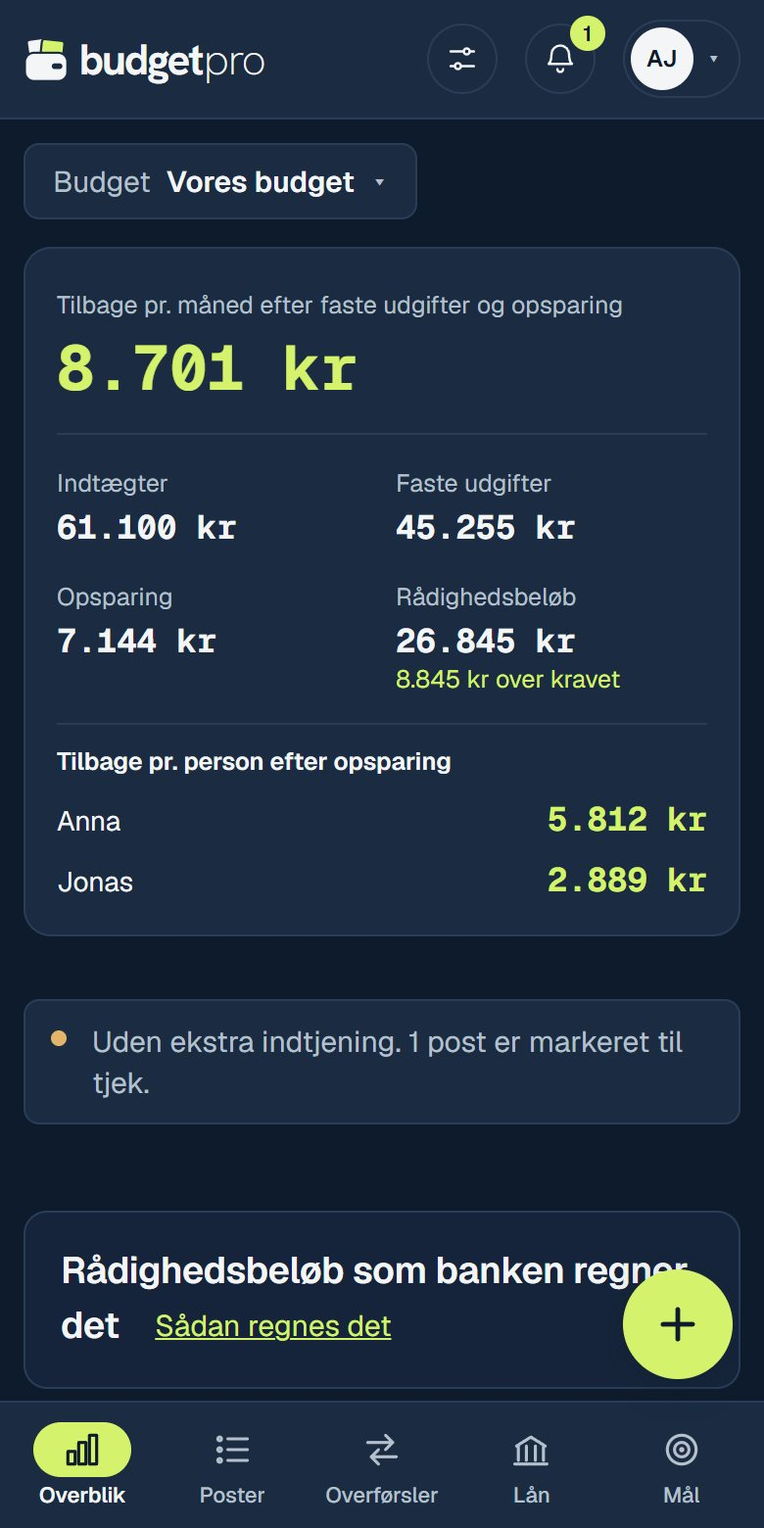
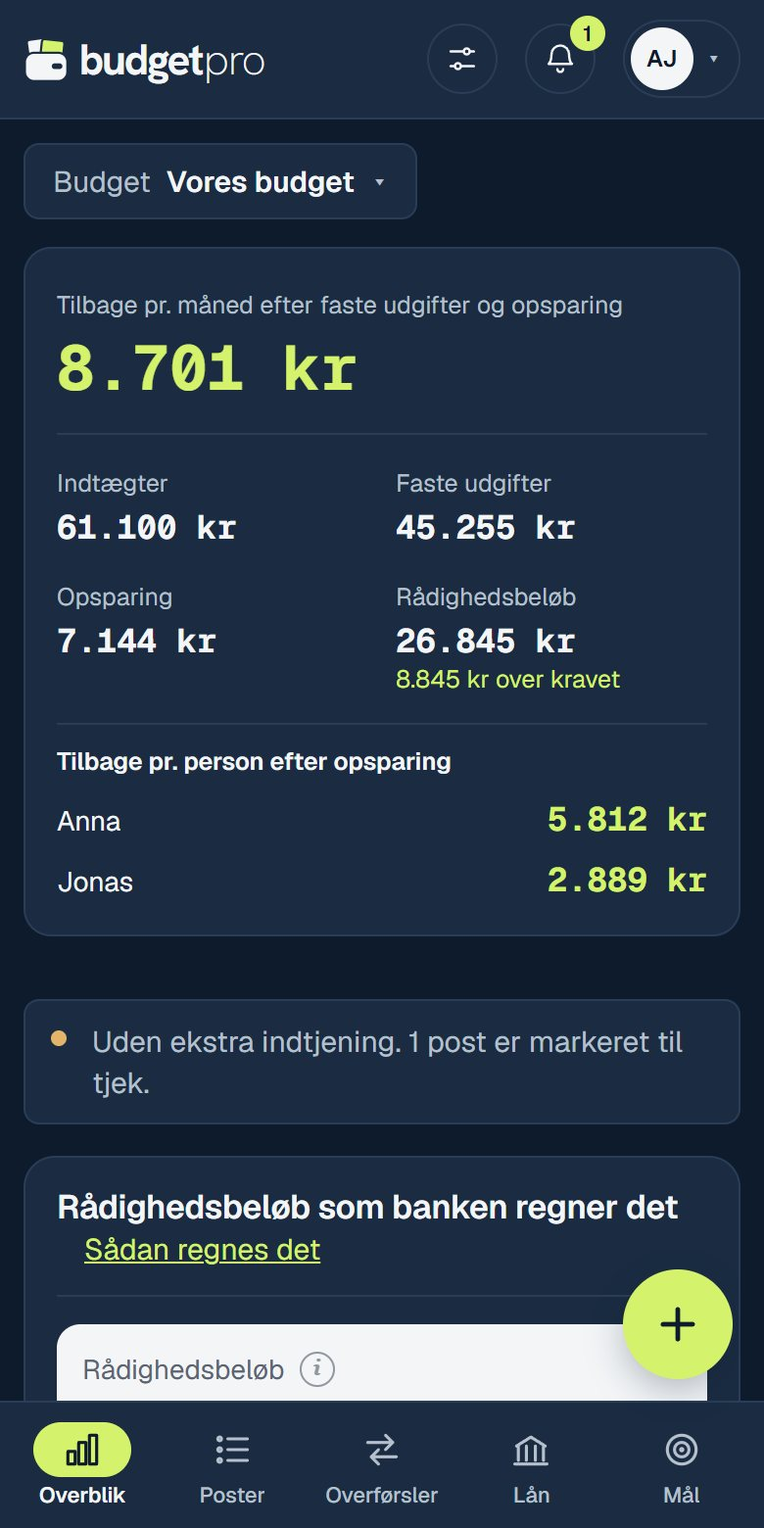
App on phones: each section is one card, details behind a button
Every section on a phone is one card with its heading inside; what was a card inside it becomes a grey tile or a
row with a line. Person cards and goals show their result with the details behind a button, the explanation under
a page's sentence is cut to three lines with "Vis mere", each post category is its own block, the filters sit on
one row, loans are small cards, and Pengestrømme and the goal chart stay on bigger screens. Landing shots redone.

Changed region(s): [[0.0308, 0.7692, 0.9231, 0.9231]]

diff --git a/public/budgetr-app/index.html b/public/budgetr-app/index.html
@@ -1067,6 +1067,108 @@ dialog.howdlg{width:min(1180px,96vw);max-width:none;height:92vh;max-height:92vh;
   /* "Dækkes af fast overførsel fra" is for the experienced: behind Flere felter until a post has it set. */
   #frm:not(.mmore) .grid2>#wCover:has(#fCover option:checked[value=""]){display:none!important}
 }
+/* ---------- Phones: every section is one card with its heading inside, like the grouped lists in banking apps. What
+   was a card of its own inside a section becomes a grey tile (people, goals, key figures) or a row with a line under
+   it (accounts, transfers), so a card never sits on another card. The long explanations are cut to a few lines,
+   and the person cards show their result until "Vis indtægter, udgifter og opsparing" is pressed. ---------- */
+.pmore{display:none}
+@media (max-width:760px){
+  #app>section,#app>section.tflow{margin:12px 0 0;padding:0 16px 16px!important;background:var(--card);border:1px solid var(--rule);border-radius:16px}
+  #app>section>.sechead,#app>section>h2{margin:0 0 14px;padding:14px 0 12px!important;background:transparent;border:0;border-bottom:1px solid var(--rule);border-radius:0}
+  #app>section>.sechead{display:flex;flex-wrap:wrap;align-items:center;justify-content:space-between;gap:8px 12px}
+  #app>section>.sechead h2,#app>section>h2{font-size:17px!important;line-height:1.3}
+  #app>section>.sechead h2 .helplink{font-size:13px;font-weight:400}
+  #app>section>.sechead .hint{display:none}
+  #app>section>.sechead>button,#app>section>.sechead .shtools .tbtn{min-height:36px;padding:6px 14px!important;font-size:14px!important}
+  #app>section>.sechead .shtools{display:flex;gap:8px;flex-wrap:wrap}
+  .sechead .split{margin:0}
+  /* Pages other than Overblik: the sentence in a card of its own, its explanation cut to three lines. */
+  body:not([data-page="budget"]) .hero{margin-top:12px;padding:16px!important;background:var(--card);border:1px solid var(--rule);border-radius:16px}
+  body:not([data-page="budget"]) .hero>p{display:block;font-size:19px;line-height:1.35;max-width:none}
+  .hero small:not(.hbar){font-size:13.5px;line-height:1.45;margin-top:10px;max-height:calc(3 * 1.45em);overflow:hidden;position:relative}
+  .hero small.open{max-height:none}
+  .hero small.clamp{cursor:pointer}
+  .hero small.clamp::after{content:"Vis mere";position:absolute;right:0;bottom:0;padding-left:28px;background:linear-gradient(to right,transparent,var(--card) 24px);color:var(--pine);font-weight:600;text-decoration:underline}
+  .hero small.hbar{display:block}
+  .mcheck{margin:12px 0 0;padding:16px;border-radius:16px}
+  /* Key figures: two tiles in a row, the main one across; grey tiles inside the card. */
+  #app>section .kpis{grid-template-columns:1fr 1fr;grid-auto-flow:dense;gap:8px}
+  #app>section .kpi{border-color:transparent;padding:12px;border-radius:12px;min-width:0}
+  #app>section .kpi:not(.hero2){background:var(--paper)}
+  #app>section .kpi.hero2{grid-column:1/-1}
+  #app>section .kpi.good{background:var(--pine-bg)}
+  #app>section .kpi.bad{background:var(--brick-bg)}
+  #app>section .kpi b{font-size:17px!important;overflow-wrap:anywhere}
+  #app>section .kpi.hero2 b{font-size:22px!important}
+  #app>section .kpi small{font-size:11.5px}
+  .setstat{margin:0 0 12px;font-size:13px}
+  /* Konti: a list with a line between the accounts. */
+  .accounts,.accounts:has(details.acctd){gap:0}
+  #app details.acctd{background:transparent;border:0;border-bottom:1px solid var(--rule);border-radius:0}
+  #app details.acctd:last-child{border-bottom:0}
+  #app details.acctd>summary{padding-left:0;padding-right:0}
+  /* Hvem betaler hvad: one grey tile per person, the result first. */
+  .people{gap:10px}
+  .person{background:var(--paper);border:0;border-radius:12px;padding:16px!important}
+  .person h3{margin-bottom:4px}
+  .person .big{margin-top:0}
+  .person:not(.open)>:is(.kv.calc,.psav,.kv:not(.pend)){display:none}
+  .person .kv.pend{display:flex;justify-content:space-between;gap:12px;margin-top:10px;padding-top:10px;border-top:1px solid var(--rule)}
+  .pmore{display:block;width:100%;margin-top:12px;min-height:42px;background:var(--card)!important;font-size:14px!important}
+  /* Poster: search across, the three filters on one row, each category as its own block with a grey head. */
+  .filters{display:grid;grid-template-columns:repeat(3,minmax(0,1fr));gap:8px}
+  .filters .qbox{grid-column:1/-1;order:-1}
+  .filters .ptools{grid-column:1/-1}
+  .filters select{min-width:0;width:100%;padding:8px 6px;text-overflow:ellipsis}
+  .ptbl{margin:0 -16px;background:transparent!important;border:0!important;border-radius:0}
+  .ptbl tr.grp>td,.ptbl tr.cat>td{padding-top:12px;padding-bottom:12px}
+  .ptbl tr.cat{margin:14px 12px 4px;background:var(--paper);border-radius:10px}
+  .ptbl tr.grp{margin:0 12px 4px;border-radius:10px}
+  .ptbl tr.grp:not(:first-child){margin-top:18px}
+  .ptbl tr.grp>td:first-child{display:flex!important;flex-wrap:wrap;align-items:center;gap:6px 0;font-size:17px;min-width:0}
+  .filters .ptools .tbtn{white-space:nowrap;font-size:13.5px!important;padding-left:8px!important;padding-right:8px!important}
+  .ptbl tr.row,.ptbl tr.empty{margin:0 4px}
+  .ptbl tr.row:has(+tr.cat),.ptbl tr.row:has(+tr.grp),.ptbl tr.row:last-child{border-bottom:0}
+  /* Overførsler: the accounts as groups with a line between them, not cards inside the card. */
+  .tcards{gap:0}
+  .tcard{background:transparent;border:0;border-top:1px solid var(--rule);border-radius:0!important;padding:14px 0 0}
+  .tcard:first-child{border-top:0;padding-top:0}
+  .tcard .tablewrap,#app>section .tablewrap:has(.tstack){background:transparent;border:0;margin:0 -14px}
+  /* Mål: grey tiles; the table of goals repeats the cards above it, so it is left out here. */
+  .goals{gap:10px}
+  .goal{background:var(--paper);border:0;border-radius:12px;padding:16px!important}
+  .gsum>.tablewrap:first-child{display:none}
+  .goal:not(.open)>:is(.kv,.gscope){display:none}
+  /* Drawings that need a wide screen stay on bigger screens, like the 12-month graph. */
+  #app>section.tflow,#app>section.gchart{display:none}
+  .upd{margin:0 0 12px}
+  .sortbar>span{display:none}
+}
+/* Lån on a phone: each loan as a small card – description and restgæld on top, bank below, then the key numbers with
+   their labels. Oprindeligt, Betalt af, Renter/md. and Udløber are in the loan itself. */
+@media (max-width:560px){
+  .ltbl{overflow:visible;margin:0 -16px;background:transparent!important;border:0!important}
+  .ltbl table,.ltbl tbody{display:block;width:100%}
+  .ltbl thead{display:none}
+  .ltbl tr{display:grid;grid-template-columns:30px repeat(3,minmax(0,1fr));gap:6px 10px;padding:12px 16px;border-bottom:1px solid var(--rule)}
+  .ltbl td{display:flex;flex-direction:column;align-items:flex-start;gap:1px;padding:0!important;border:0!important;text-align:left!important;min-width:0;background:transparent!important;font-size:14px}
+  .ltbl td[data-l]::before{content:attr(data-l);font-size:11.5px;color:var(--ink3)}
+  .ltbl td *{white-space:normal!important;overflow-wrap:anywhere}
+  .ltbl td.chk{grid-column:1;grid-row:1/span 2;padding-top:2px!important}
+  .ltbl td.desc{grid-column:2/4;grid-row:1;font-weight:600;font-size:15px}
+  .ltbl td.restcol{grid-column:4;grid-row:1;align-items:flex-end;text-align:right!important}
+  .ltbl td.restcol::before{content:none}
+  .ltbl tr.row>td:nth-child(2){grid-column:2/-1;grid-row:2;color:var(--ink2);font-size:13px}
+  .ltbl td:is([data-l="Oprindeligt"],[data-l="Renter/md."],[data-l="Udløber"]),.ltbl td.lpaid{display:none}
+  .ltbl td[data-l="Ydelse/md."]{grid-column:2}
+  .ltbl td[data-l="I budgettet"]{grid-column:2/-1;flex-direction:row;flex-wrap:wrap;align-items:baseline;gap:4px 8px;color:var(--ink2);font-size:13px}
+  .ltbl td[data-l="I budgettet"]::before{content:"I budgettet:";font-size:13px}
+  .ltbl td[data-l="I budgettet"] .note{display:none}
+  .ltbl tr.cat{grid-template-columns:minmax(0,1fr) auto;background:var(--paper);margin:8px 12px 0;border-radius:10px;border:0}
+  .ltbl tr.cat>td{display:none}
+  .ltbl tr.cat>td:first-child,.ltbl tr.cat>td.restcol{display:flex;font-weight:600}
+  .ltbl tr.cat>td.restcol{grid-column:2;grid-row:1}
+}
 @media print{
   .mnav,.fab{display:none!important}
   .appbar,.navrow{display:none!important}
@@ -1749,9 +1851,9 @@ function render(){
     if(!filmSeen())setTimeout(()=>{if(!S&&!filmSeen()&&!document.querySelector('dialog[open]'))openFilm()},400);return}
   syncENT();
   INFO=[];closePop();
-  if(page==='laan'){$('exAll').checked=exOn();app.innerHTML=loansHtml();bindLoans();return}
-  if(page==='overf'){$('exAll').checked=exOn();app.innerHTML=overfHtml();bindOverf();return}
-  if(page==='maal'){$('exAll').checked=exOn();app.innerHTML=goalsHtml();bindGoals();return}
+  if(page==='laan'){$('exAll').checked=exOn();app.innerHTML=loansHtml();bindLoans();clampHero();return}
+  if(page==='overf'){$('exAll').checked=exOn();app.innerHTML=overfHtml();bindOverf();clampHero();return}
+  if(page==='maal'){$('exAll').checked=exOn();app.innerHTML=goalsHtml();bindGoals();clampHero();return}
   $('exAll').checked=exOn();
   const t=totals(), sh=shares();
   const unplaced=act().filter(e=>e.type==='udgift'&&!e.account);
@@ -1839,7 +1941,7 @@ function render(){
     const c=personCalc(p.id);
     // Til rådighed as a small sum: incomes (+, green), expenses (−, red), then the result below.
     const incT=c.own+c.extra+c.shInc, expT=c.ownExp+c.shExp, ln=(cls,label,v)=>`<span class="${cls}">${label}</span><span class="${cls} v">${disp(v)}</span>`;
-    h+=`<div class="person"><h3>${esc(p.name)}</h3><div class="kv calc">
+    h+=`<div class="person${PDET.has(p.id)?' open':''}"><h3>${esc(p.name)}</h3><div class="kv calc">
       <span class="ch in">Indtægter</span><span class="ch"></span>
       ${ln('in',`+ Faste indtægter ${ib(listInfo('Faste indtægter',act().filter(e=>e.type==='indtaegt'&&!e.extra&&inFree(e)&&e.payer===p.id)))}`,c.own)}
       ${extraSum(p)?ln('in',`+ Ekstra indtjening ${ib(`<b>Ekstra indtjening</b>${tbl(exPosts(p.id).map(e=>[esc(e.desc),howOf(e),disp(mAvg(e))]),extraSum(p))}<p>${exOn()?'Medregnes i beregningen.':'Medregnes ikke lige nu.'} Fluebenet herunder gælder hele husstanden. Indgår ikke i fordelingen af fælles udgifter. Posterne står under Indtægter.</p>`)}`,c.extra)
@@ -1863,8 +1965,9 @@ function render(){
       <div class="psav"><span class="ph">Ekstra indtjening</span>${exPosts(p.id).map(e=>`<div class="psrow click" data-open="${e.id}" tabindex="0" role="button" title="Ret posten"><span class="nm">${esc(e.desc)}<small>${esc(howOf(e))}${exOn()?'':' · ikke medregnet'}</small></span><span class="v">${disp(mAvg(e))}</span></div>`).join('')||'<span class="muted" style="font-size:13px">Ingen ekstra indtjening.</span>'}${extraSum(p)?`<div class="psum ex"><span>I alt</span><b>${disp(extraSum(p))}</b></div>`:''}
         <button type="button" class="ghost" data-exnew="${p.id}" style="align-self:flex-start">Tilføj ekstra indtjening</button></div>
       ${psavHtml(p,c)}
-      <div class="kv"><span>Tilbage efter opsparing</span><span style="color:${c.afterSav>=0?'var(--pine)':'var(--brick)'}">${disp(c.afterSav)}</span></div>
-      ${c.afterSav<0?`<div class="verdict bad">Opsparingen er ${disp(-c.afterSav)} højere end rådighedsbeløbet.</div>`:''}</div>`;
+      <div class="kv pend"><span>Tilbage efter opsparing</span><span style="color:${c.afterSav>=0?'var(--pine)':'var(--brick)'}">${disp(c.afterSav)}</span></div>
+      ${c.afterSav<0?`<div class="verdict bad">Opsparingen er ${disp(-c.afterSav)} højere end rådighedsbeløbet.</div>`:''}
+      ${moreBtn(p.id,'Vis indtægter, udgifter og opsparing')}</div>`;
   });
   h+=`</div></section>`;
 
@@ -1897,6 +2000,14 @@ function render(){
    posts), Overblik asks "Hvad har ændret sig siden sidst?" – the posts with a new amount or new since then (e.since,
    e.history), plus the posts to check and the open tasks – and "Budgettet passer" confirms it with one press. */
 const MC_DAYS=30;
+/* Phones: the person cards on Overblik show the result only; PDET holds the ones opened with "Vis indtægter, …" (until reload).
+   The long explanation under a page's sentence is cut to a few lines there, with "Vis mere" when there is more (clampHero). */
+const PDET=new Set();
+const moreBtn=(key,label)=>`<button type="button" class="pmore" data-pmore="${key}" data-l="${label}" aria-expanded="${PDET.has(key)}">${PDET.has(key)?'Skjul detaljer':label}</button>`;
+function bindMore(){document.querySelectorAll('[data-pmore]').forEach(b=>b.onclick=()=>{const k=b.dataset.pmore,on=!PDET.has(k);on?PDET.add(k):PDET.delete(k);
+  b.parentElement.classList.toggle('open',on);b.setAttribute('aria-expanded',String(on));b.textContent=on?'Skjul detaljer':b.dataset.l})}
+function clampHero(){const s=document.querySelector('#app .hero small:not(.hbar)');if(!s||s.classList.contains('open'))return;
+  s.classList.toggle('clamp',s.scrollHeight>s.clientHeight+2);s.onclick=()=>{if(s.classList.contains('clamp')){s.classList.remove('clamp');s.classList.add('open')}}}
 const daysSince=d=>Math.floor((Date.parse(DAY())-Date.parse(d))/864e5);
 function monthCheckDue(){const sp=S.settings||{};return sp.monthCheck?daysSince(sp.monthCheck)>=MC_DAYS:S.entries.length>=5}
 function monthCheckHtml(){if(!monthCheckDue())return '';const last=S.settings.monthCheck||'';
@@ -2062,12 +2173,12 @@ function goalsHtml(){
   if(!G.length)h+=`<div class="empty" style="padding:8px 0"><p>Opret et mål, fx udbetaling til hus. Angiv beløb, startdato og måldato, så beregnes det månedlige beløb. Vælg konto og betaler som på en almindelig post.</p></div>`;
   else{h+=`<div class="goals">`+G.map(g=>{const c=goalCalc(g),inCtx=goalIn(g,key),tr=g.to&&g.to!==g.from;
     const badge=g.active===false?'<span class="badge un">Inaktiv</span>':c.ended?`<span class="badge un">${c.mode==='monthly'?'Slutdato':'Måldato'} er passeret</span>`:c.future?`<span class="badge chk">Starter ${idxLbl(c.s).toLowerCase()}</span>`:'';
-    return `<div class="goal ${inCtx&&goalCounts(g)?'':'off'}"><div class="ghead"><h3><span class="gdot" style="background:${gColor(g)}"></span>${esc(g.name||'Mål')}${badge}</h3><button type="button" class="ghost" data-gedit="${g.id}">Ret</button></div>
+    return `<div class="goal ${inCtx&&goalCounts(g)?'':'off'}${PDET.has('g:'+g.id)?' open':''}"><div class="ghead"><h3><span class="gdot" style="background:${gColor(g)}"></span>${esc(g.name||'Mål')}${badge}</h3><button type="button" class="ghost" data-gedit="${g.id}">Ret</button></div>
      <div class="gamt">${kr(c.monthly)}<small>pr. md.${c.n?' i '+c.n+' md.':' · løbende'}</small></div>${c.xs?`<span class="note" style="margin-top:-6px">${c.mode==='monthly'?`Plus ${c.X.length} ekstra ${c.X.length===1?'indbetaling':'indbetalinger'} på i alt ${kr(c.xs)}.`:`Sænket fra ${kr(Math.ceil(c.rest0/c.n))} til ${kr(c.monthly)} pr. md. med ${c.X.length} ekstra ${c.X.length===1?'indbetaling':'indbetalinger'} på i alt ${kr(c.xs)}.`}</span>`:''}
      <div>${c.T?`<div class="loanbar"><div style="width:${Math.round(c.pct*100)}%;background:${gColor(g)}"></div></div><span class="note">Skønnet opsparet ${kr(c.est)} af ${kr(c.T)} (${Math.round(c.pct*100)} %) · ${c.left} md. tilbage</span>`:`<span class="note">Skønnet opsparet ${kr(c.est)} indtil nu · om et år ${kr(c.est+c.monthly*12)}</span>`}</div>
      <div class="kv">${c.mode==='monthly'?`<span>Type</span><span>Fast pr. md.</span><span>Forventet slutbeløb</span><span>${c.T?kr(c.T):'Løbende'}</span><span>Allerede opsparet</span><span>${kr(c.sv)}</span>`:`<span>Type</span><span>Fast beløb</span><span>Målbeløb</span><span>${kr(c.T)}</span><span>Allerede opsparet</span><span>${kr(c.sv)}</span><span>Mangler ved start</span><span>${kr(c.rest0)}</span>`}${c.X.length?`<span>Ekstra indbetalinger ${ib(`<b>Ekstra indbetalinger</b>${tbl(c.X.map(x=>[esc(fmtDate(x.date)),esc(x.desc),kr(x.amount)]))}<table class="itbl"><tbody><tr class="sum"><td>I alt</td><td class="r">${kr(c.xs)}</td></tr></tbody></table><p>${c.mode==='monthly'?'Lægges oven i de månedlige indbetalinger.':`Sænker den månedlige opsparing fra ${kr(Math.ceil(c.rest0/c.n))} til ${kr(c.monthly)}.`}</p>`)}</span><span>${kr(c.xs)}</span>`:''}
       <span>Periode</span><span>${esc(fmtDate(g.start))} – ${g.end?esc(fmtDate(g.end)):'løbende'}</span><span>Betales fra</span><span>${esc(accName(g.from))}</span><span>Sættes ind på</span><span>${tr?esc(accName(g.to)):'Bliver på kontoen'}</span><span>Betaler</span><span>${esc(perName(g.payer||FAELLES))}</span></div>
-     ${c.xOut?`<div class="verdict warn">${c.xOut} ekstra ${c.xOut===1?'indbetaling ligger':'indbetalinger ligger'} uden for perioden og tæller ikke med.</div>`:''}${g.note?`<span class="note">${esc(g.note)}</span>`:''}${scopeChips(g)}</div>`}).join('')+`</div>`}
+     ${c.xOut?`<div class="verdict warn">${c.xOut} ekstra ${c.xOut===1?'indbetaling ligger':'indbetalinger ligger'} uden for perioden og tæller ikke med.</div>`:''}${g.note?`<span class="note">${esc(g.note)}</span>`:''}${scopeChips(g)}${moreBtn('g:'+g.id,'Vis detaljer')}</div>`}).join('')+`</div>`}
   h+=`</section>`;
   if(L.length){
     const rowsG=L.map(g=>{const c=goalCalc(g),tr=g.to&&g.to!==g.from;return `<tr><td><span class="gdot" style="background:${gColor(g)}"></span>${esc(g.name||'Mål')}</td><td>${esc(accName(g.from))}${tr?' til '+esc(accName(g.to)):''}</td><td>${esc(perName(g.payer||FAELLES))}</td><td class="r">${c.xs?kr(c.xs):'<span class="muted">–</span>'}</td><td class="r">${disp(c.monthly)}</td></tr>`}).join('');
@@ -2093,6 +2204,7 @@ function goalsHtml(){
 }
 function bindScopes(){document.querySelectorAll('[data-gscope]').forEach(c=>c.onchange=()=>{const g=(S.goals||[]).find(x=>x.id===c.dataset.gscope);if(!g)return;const k=c.dataset.key;g.scopes=(g.scopes||[]).filter(x=>x!==k);if(c.checked)g.scopes.push(k);commit()})}
 function bindGoals(){
+  bindMore();
   document.querySelectorAll('[data-sc]').forEach(b=>b.onclick=()=>{SC=b.dataset.sc||null;render()});
   document.querySelectorAll('[data-gnew]').forEach(b=>b.onclick=()=>openGoal(null));
   document.querySelectorAll('[data-gedit]').forEach(b=>b.onclick=()=>openGoal(b.dataset.gedit));
@@ -2369,11 +2481,11 @@ function loansHtml(){
    ${L.map(({l,c})=>{
      const diff=c.budget!==null&&Math.abs(c.budget-c.A)>=1&&!l.paused;
      return `<tr class="row ${l.paused?'paused':''} ${l.include===false?'excl':''}" data-loan="${l.id}" tabindex="0"><td class="chk"><input type="checkbox" data-linc="${l.id}" ${l.include!==false?'checked':''} aria-label="Medtag ${esc(l.desc)} i samlet restgæld"></td><td>${esc(l.bank)}</td><td class="desc">${esc(l.desc)}${l.paused?'<span class="badge mute">Pause</span>':''}${l.note?`<span class="note">${esc(l.note)}</span>`:''}</td>
-     <td class="r">${kr(c.O)}</td><td class="r restcol"><b>${kr(c.P)}</b>${l.restDate&&l.restDate!==(S.loanUpdated?fmtDate(S.loanUpdated,true):'')?`<span class="note">pr. ${esc(l.restDate)}</span>`:''}</td>
-     <td><div class="loanbar" title="${Math.round(c.paid*100)} % betalt"><div style="width:${Math.round(c.paid*100)}%"></div></div><span class="note">${Math.round(c.paid*100)} %</span></td>
-     <td class="r">${kr(c.A)}</td><td class="r">${l.rate!==''&&l.rate!==undefined&&l.rate!==null?pct(l.rate):'<span class="muted">–</span>'}</td><td class="r">${l.rate?kr(c.interest):'<span class="muted">–</span>'}</td>
-     <td>${esc(l.ends||'')}</td><td>${l.paused?'<span class="muted">På pause</span>':c.n===null?(l.rate?'<span class="badge un">Ydelsen dækker ikke renten</span>':'<span class="muted">Angiv rente</span>'):c.n>360?`${c.endTxt}<span class="note">Over 30 år. Er lånet afdragsfrit, eller indeholder ydelsen bidrag?</span>`:`${c.endTxt}${c.n>0?`<span class="lend">frigiver ${kr(c.budget!==null?c.budget:c.A)}/md.</span>`:''}`}</td>
-     <td class="r">${c.link?`${c.budget!==null?kr(c.budget):'<span class="muted">Inaktiv</span>'}${diff?`<span class="badge chk">${c.budget>c.A?'+':''}${kr(c.budget-c.A)}</span>`:''}<span class="note">${esc(c.link.desc)}</span>`:'<span class="muted">Ikke tilknyttet</span>'}</td></tr>`}).join('')}
+     <td class="r" data-l="Oprindeligt">${kr(c.O)}</td><td class="r restcol" data-l="Restgæld"><b>${kr(c.P)}</b>${l.restDate&&l.restDate!==(S.loanUpdated?fmtDate(S.loanUpdated,true):'')?`<span class="note">pr. ${esc(l.restDate)}</span>`:''}</td>
+     <td class="lpaid" data-l="Betalt af"><div class="loanbar" title="${Math.round(c.paid*100)} % betalt"><div style="width:${Math.round(c.paid*100)}%"></div></div><span class="note">${Math.round(c.paid*100)} %</span></td>
+     <td class="r" data-l="Ydelse/md.">${kr(c.A)}</td><td class="r" data-l="Rente">${l.rate!==''&&l.rate!==undefined&&l.rate!==null?pct(l.rate):'<span class="muted">–</span>'}</td><td class="r" data-l="Renter/md.">${l.rate?kr(c.interest):'<span class="muted">–</span>'}</td>
+     <td data-l="Udløber">${esc(l.ends||'')}</td><td data-l="Beregnet slut">${l.paused?'<span class="muted">På pause</span>':c.n===null?(l.rate?'<span class="badge un">Ydelsen dækker ikke renten</span>':'<span class="muted">Angiv rente</span>'):c.n>360?`${c.endTxt}<span class="note">Over 30 år. Er lånet afdragsfrit, eller indeholder ydelsen bidrag?</span>`:`${c.endTxt}${c.n>0?`<span class="lend">frigiver ${kr(c.budget!==null?c.budget:c.A)}/md.</span>`:''}`}</td>
+     <td class="r" data-l="I budgettet">${c.link?`${c.budget!==null?kr(c.budget):'<span class="muted">Inaktiv</span>'}${diff?`<span class="badge chk">${c.budget>c.A?'+':''}${kr(c.budget-c.A)}</span>`:''}<span class="note">${esc(c.link.desc)}</span>`:'<span class="muted">Ikke tilknyttet</span>'}</td></tr>`}).join('')}
    <tr class="cat"><td colspan="3">I alt, ${selTxt}</td><td class="r">${kr(tO)}</td><td class="r restcol">${kr(tP)}</td><td></td><td class="r">${kr(tA)}</td><td class="r">${pct(wr)}</td><td class="r">${kr(tI)}</td><td colspan="3"></td></tr>
    </tbody></table></div>
    <p class="muted" style="font-size:13px;margin-top:10px">"I budgettet" viser den tilknyttede budgetpost omregnet til pr. måned. Et gult tal viser forskellen til ydelsen her. Kvartalsvise ydelser, fx Totalkredit, kan afvige lidt, fordi banken opgør pr. måned.</p>
@@ -2851,6 +2963,7 @@ function startInfo(onPosts){
   return `<div class="startinfo" role="note"><div><b>Udfyld dine budgetposter for at få tal i dit budget</b><p>Læg løn og faste udgifter ind, fx husleje, el, forsikringer og abonnementer. Så viser overblikket, hvad der er tilbage hver måned.</p></div>
   <div class="btns">${onPosts?'':'<button type="button" data-goto="poster">Gå til Budgetposter</button>'}<button type="button" class="primary" data-newpost>Ny budgetpost</button></div></div>`}
 function bindMain(){
+  bindMore();
   document.querySelectorAll('details.acctd').forEach(d=>d.addEventListener('toggle',()=>{FOLD[d.dataset.acc]=!d.open;saveFold();const all=[...document.querySelectorAll('details.acctd')];const b=$('btnFoldAll');if(b)b.innerHTML=foldLbl(all.every(x=>!x.open))}));
   const bf=$('btnFoldAll');if(bf)bf.onclick=()=>{const all=[...document.querySelectorAll('details.acctd')],open=!all.every(x=>!x.open)?false:true;all.forEach(x=>{x.open=open;FOLD[x.dataset.acc]=!open});saveFold();bf.innerHTML=foldLbl(!open)};
   if($('btnAccts'))$('btnAccts').onclick=openAccts;

diff --git a/CLAUDE.md b/CLAUDE.md
@@ -7,7 +7,7 @@ Language: code and comments in English; UI text in Danish (du-form, calm, no exc
 ## Architecture
 
 - `/` landing page (Next.js, `components/landing/`), `/login` test-user login (Next.js), `/app` = the ORIGINAL budgetr app from the prototype, a single vanilla-JS file at `public/budgetr-app/index.html` (rewritten in `next.config.ts`). The user chose to keep that app 1:1 instead of a React rebuild; change features by editing that file directly, and keep its behaviour and look.
-- On phones (≤760 px) the app works like an app: the pages sit in a fixed bar at the bottom (`.mnav`, same `data-page` buttons as the top tabs), a round + opens a new post (`.fab`, Overblik and Poster only), Indstillinger is the gear in the top bar (`.setbtn`), Overblik starts with a key-figure card (`mobSumHtml()`) instead of the hero sentence and leaves out the 12-month graph, and the post editor fills the screen with fixed buttons and the main fields first (the rest behind "Flere felter", `moreFields()`). A new page needs a button in both `.tabs` and `.mnav`. "Rundtur" in the profile menu (`openTour()`, stops in `TOUR`) dims the page and points at six things in turn – the pages, new post, scenarios/drafts, tasks, settings, the menu – using whichever button is shown (top tabs or `.mnav`, `#btnNew` or `.fab`); when one of them moves or a main feature gets its own button, update `TOUR`.
+- On phones (≤760 px) the app works like an app: the pages sit in a fixed bar at the bottom (`.mnav`, same `data-page` buttons as the top tabs), a round + opens a new post (`.fab`, Overblik and Poster only), Indstillinger is the gear in the top bar (`.setbtn`), Overblik starts with a key-figure card (`mobSumHtml()`) instead of the hero sentence and leaves out the 12-month graph, and the post editor fills the screen with fixed buttons and the main fields first (the rest behind "Flere felter", `moreFields()`). Every section is one card with its heading inside (no card on a card: inner parts become grey tiles or rows with a line), the person cards and goals show their result with the details behind a button (`moreBtn()`/`PDET`), the explanation under a page's sentence is cut to three lines with "Vis mere" (`clampHero()`), each post category is its own block, loans are small cards, and Pengestrømme and the goal chart are left out. A new page needs a button in both `.tabs` and `.mnav`. "Rundtur" in the profile menu (`openTour()`, stops in `TOUR`) dims the page and points at six things in turn – the pages, new post, scenarios/drafts, tasks, settings, the menu – using whichever button is shown (top tabs or `.mnav`, `#btnNew` or `.fab`); when one of them moves or a main feature gets its own button, update `TOUR`.
 - The app's fonts (Geist, Geist Mono, Hanken Grotesk) are served from `public/budgetr-app/fonts/` – never load them from Google again (that sends the visitor's IP to Google without consent). Indstillinger > Din bruger lets the primary e-mail delete the account (`DELETE /api/account/[user]` with `{confirm:"SLET"}` → `deleteAccount()` in `lib/accounts.ts`: account, budget, backups, profile, activity, send counter). When something new is stored per account, delete it there too and update `/privatliv`.
 - Vendor libs for the app live in `public/budgetr-app/vendor/` (jsPDF, AutoTable, xlsx-js-style = SheetJS 0.18.5 with cell styles, `pdfjs/` = pdf.js 6.3.289 legacy build for reading PDF statements, loaded on first use). Don't edit them.
 - Draft budgets (Kladder): whole budgets stored inside the primary one as `drafts[]` (`{id,name,created,mode,files,data}`, one level deep). While a draft is open, `S` is the draft's data and `ROOT` the primary budget, so all pages work on the draft; saving and the backup always use `rootS()`. The draft import reads several CSV/Excel/PDF statements at once, pairs transfers between the uploaded accounts, and stores only the chosen entries (never the transactions). It also reads budgets made in Excel/CSV (`budgetRows()`: months Jan–Dec or Q1–Q4 as columns, amount + frequency, one row per month and post, or one column per person; all sheets; totals skipped) and offers their posts as they stand; a file that is a budget is never read as a statement. "Sæt som primært budget" swaps them and keeps the old budget as a draft (`mode:'prev'`). The guide "Start nyt budget" starts by asking how to begin (`WS_START`: empty, from statements or from existing budgets; the two file choices open the draft import right after the budget is made, `openDImp(kind)`), and it also saves its result as a draft when a budget already exists; it only becomes the primary budget on a first visit.
